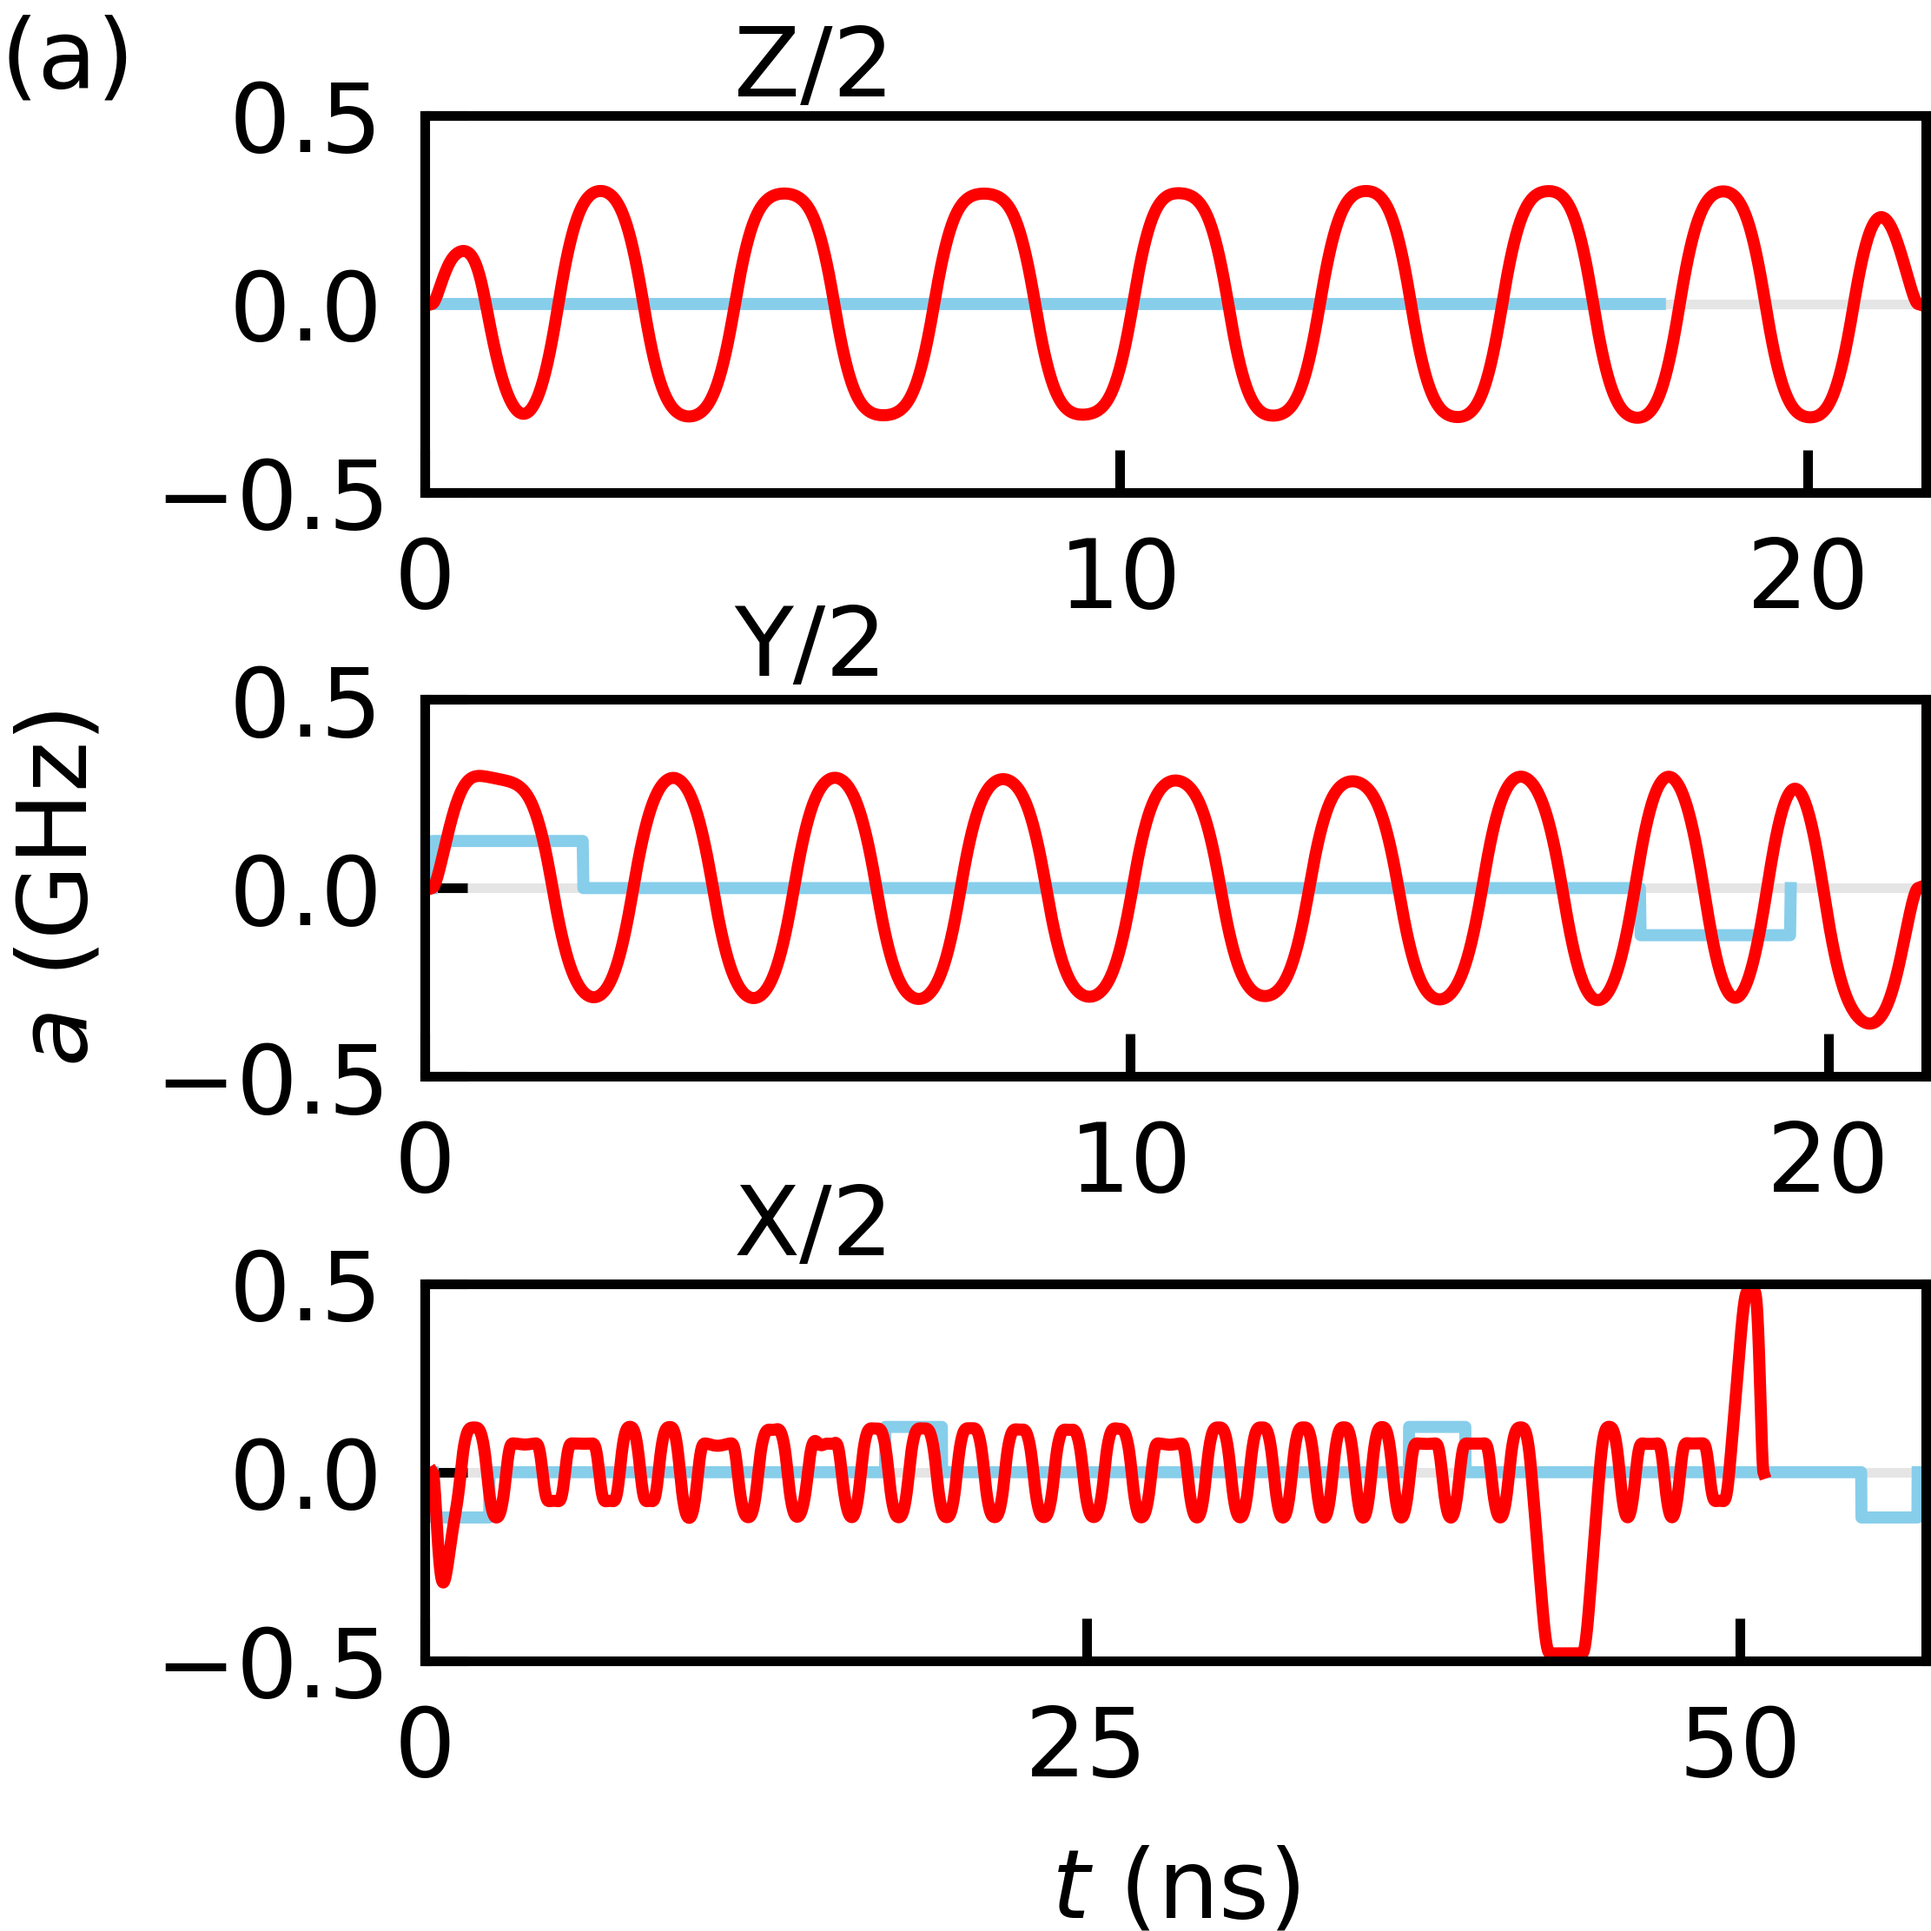
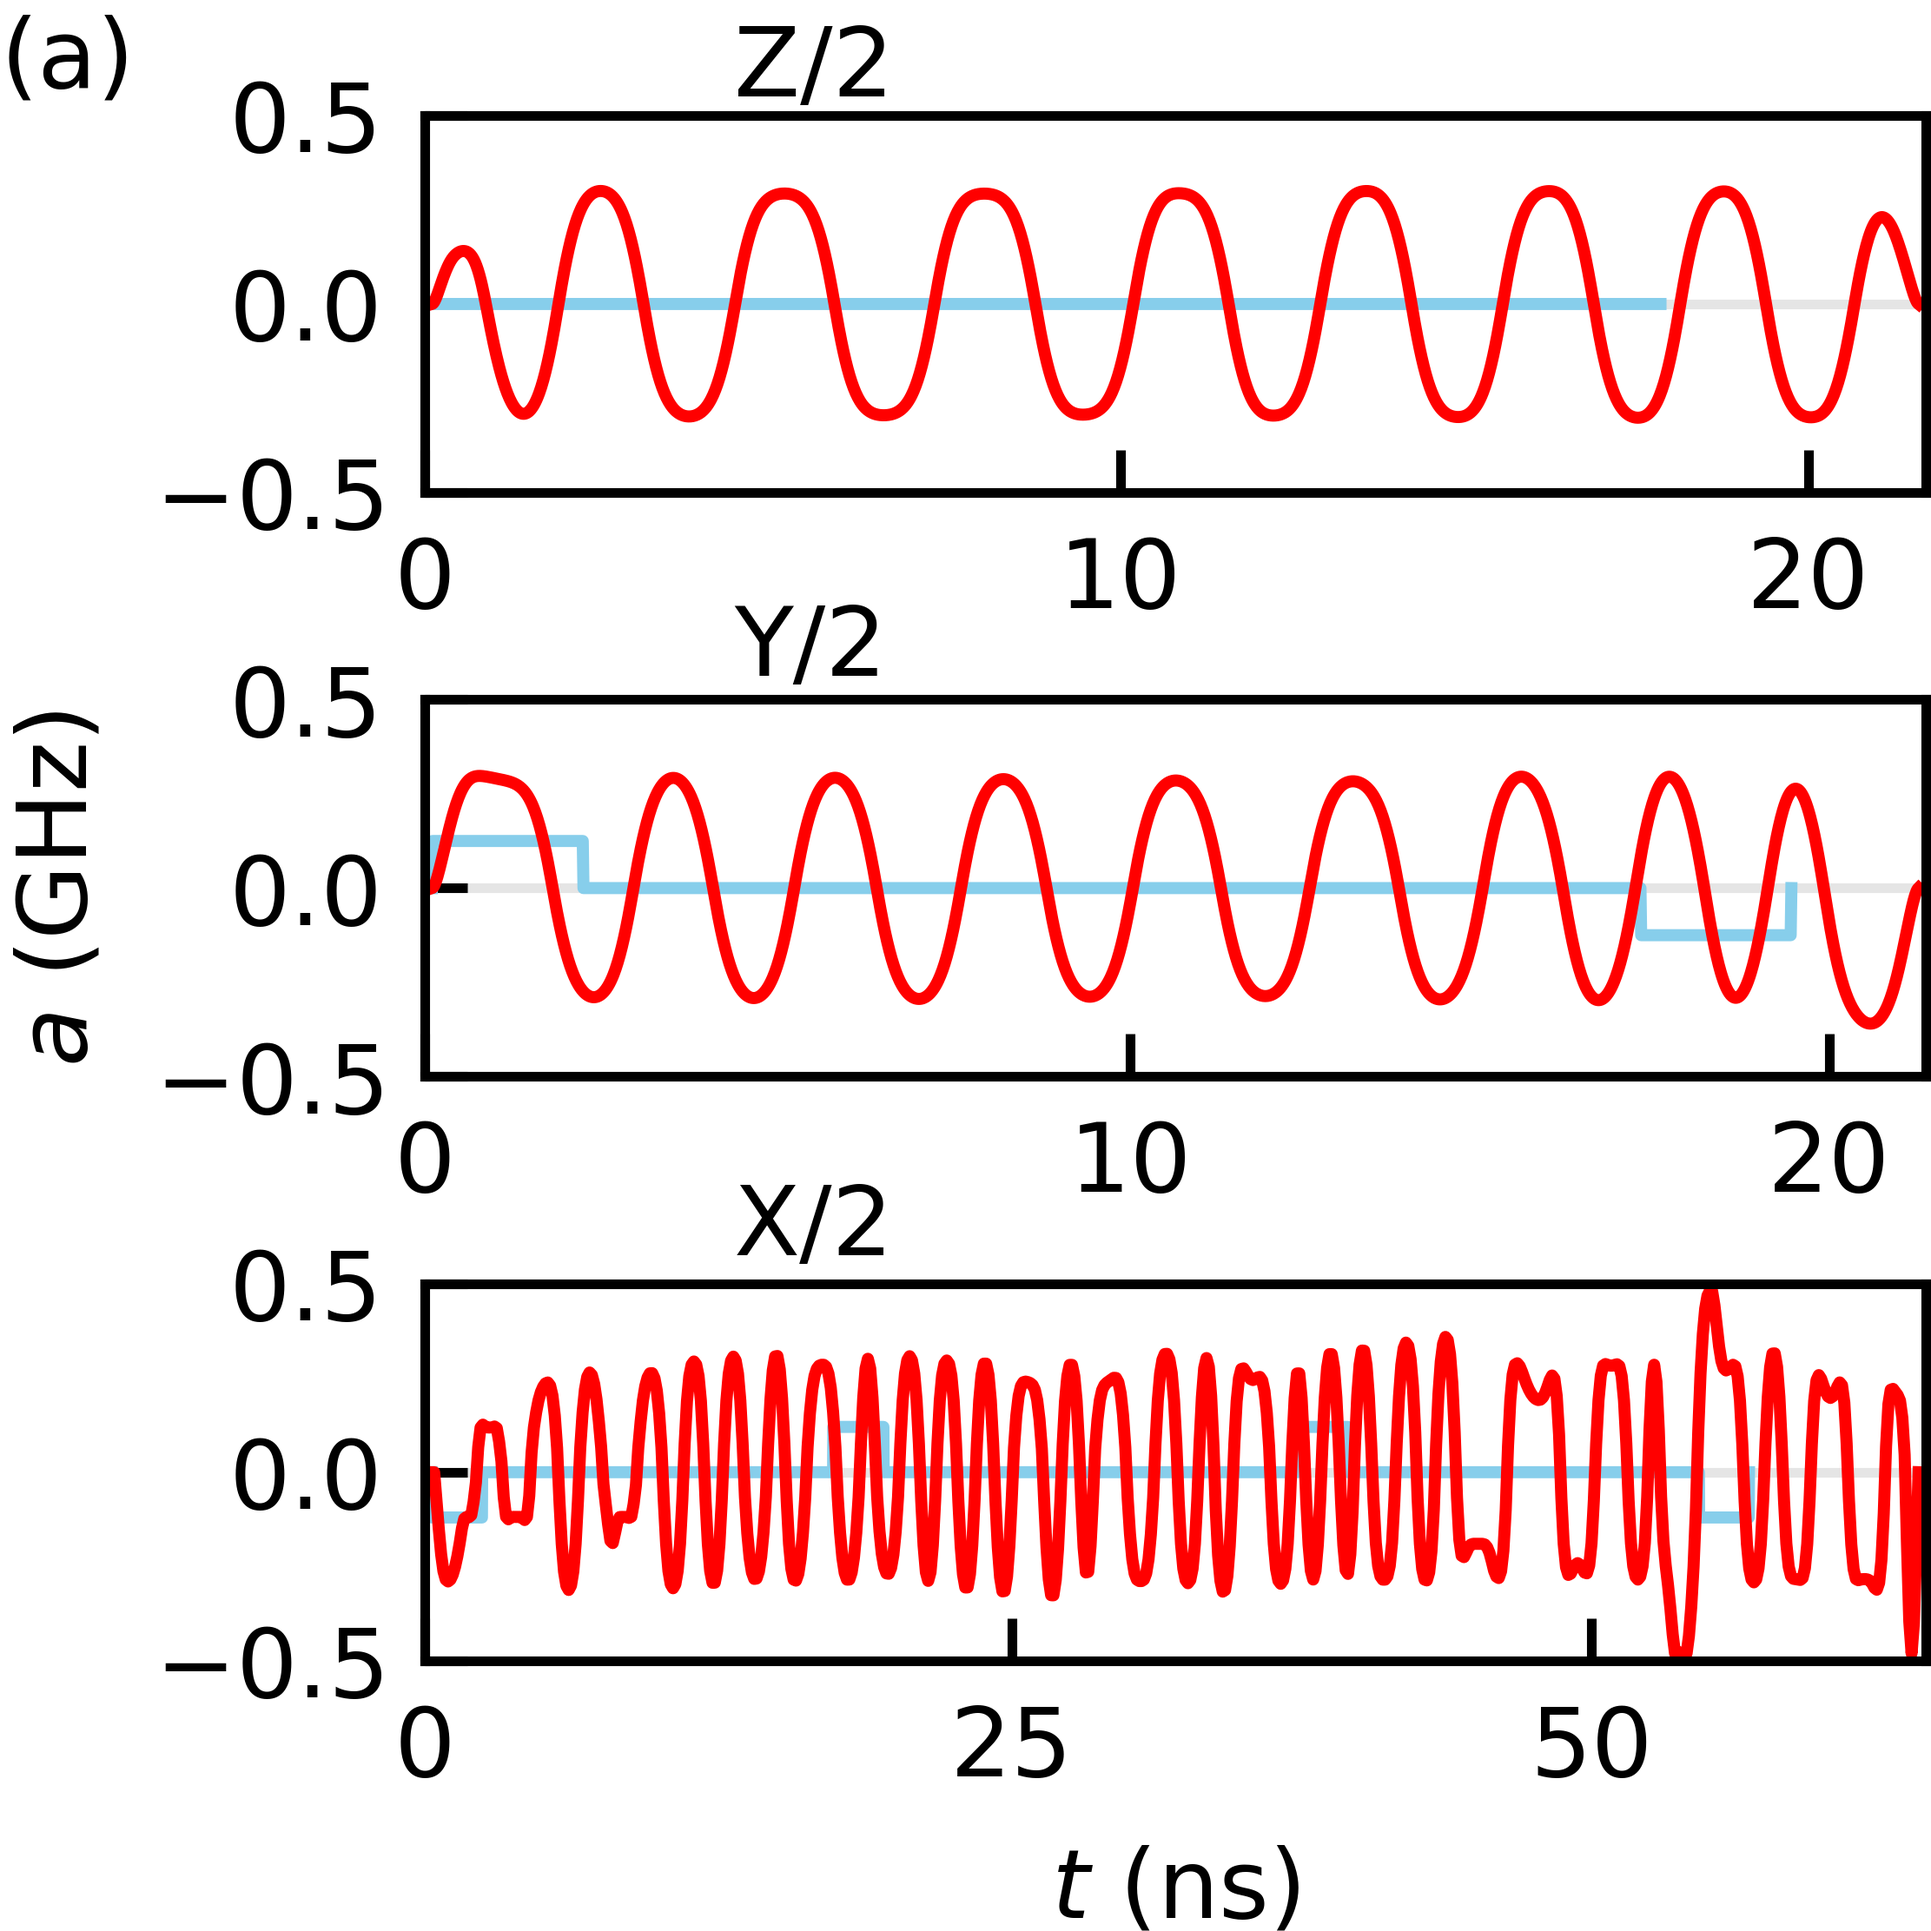
updated f1 figures

Changed region(s): [[0.2173, 0.6518, 1.0, 0.9312]]

diff --git a/paper/main.tex b/paper/main.tex
@@ -446,7 +446,17 @@ over $10^{3}$ gate applications. Their single gate errors are sufficient for
 quantum error correction, requisite for fault-tolerant quantum computing,
 and their low gate errors for extend computations are critical for noisy, intermediate-scale
 quantum (NISQ) applications.
-The $T_{1}$ optimized $X/2$ gate achieves a single gate error...
+
+The $T_{1}$ optimized $X/2$ gate achieves a factor of 3.5 reduction in
+its single gate probability of longitudinal relaxation over its analytic
+counterpart, commensurate with its
+reduction in single gate error $1 \cdot 10^{-4} \rightarrow 3.5 \cdot 10^{-5}$.
+The analytic $X/2$ gate is composed of the analytic $Z/2$ and $Y/2$ gates $-Y/2 \cdot Z/2 \cdot Y/2$.
+In principle the $T_{1}$ optimized $X/2$ gate should be able to perform at least as well
+as the analogous composite of the $T_{1}$ optimized $Z/2$ and $Y/2$ gates, achieving a factor
+of 5 reduction in its single gate probability and single gate errors.
+For all of the gates optimized here, the longitudinal relaxation probability is an effective
+metric in predicting performance in simulated relaxation and in decreasing the erro.
 
 %% F2
 \begin{figure*}[ht]
@@ -732,9 +742,9 @@ $L_{2} = (I - \sigma_{z})/2$.
     Gate & $P_{1}\ (10^{-5})$ & $P_{1}\ (10^{-5})$ & $P_{1\textrm{A}} / P_{1\textrm{Q}}$
     & GE $(10^{-5})$ & GE $(10^{-5})$ & GE$_{\textrm{A}}$ / GE$_{\textrm{Q}}$\\
     \hline
-    Z/2 & 5.745  & 1.149 & 5.000 & 3.568  & 0.727 & 4.905\\
-    Y/2 & 5.253  & 1.157 & 4.540 & 3.107  & 0.763 & 4.072\\
-    X/2 & 16.251 & 4.488 & 3.621 & 10.542 & 3.563 & 3.449\\
+    Z/2 & 5.745  & 1.149 & 5.000 & 1.776 & 0.371 & 4.787\\
+    Y/2 & 5.253  & 1.157 & 4.540 & 1.539 & 0.370 & 4.159\\
+    X/2 & 16.251 & 2.660 & 6.109 & 5.347 & 0.863 & 6.196\\
   \end{tabular}
   \caption{Probability of longitudinal relaxation for each gate
     evaluated at the gate's duration.}
